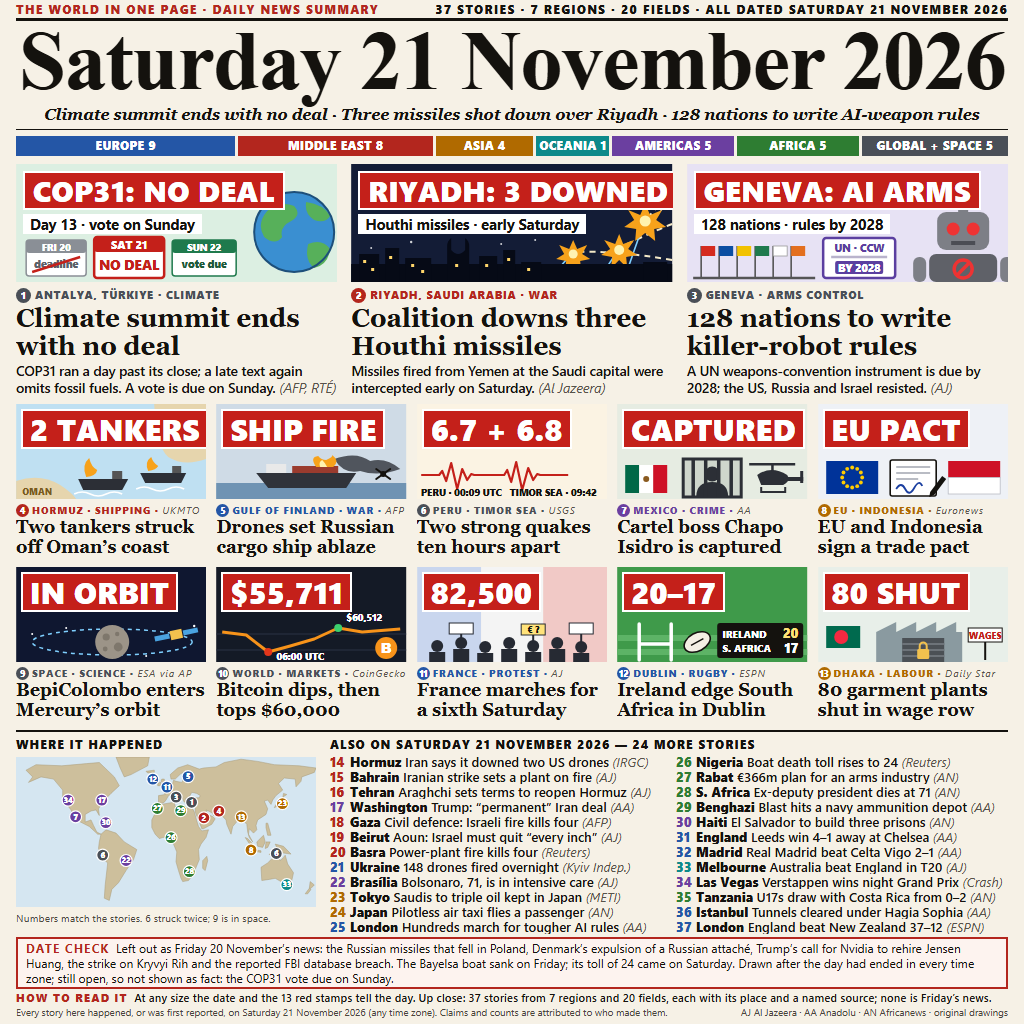
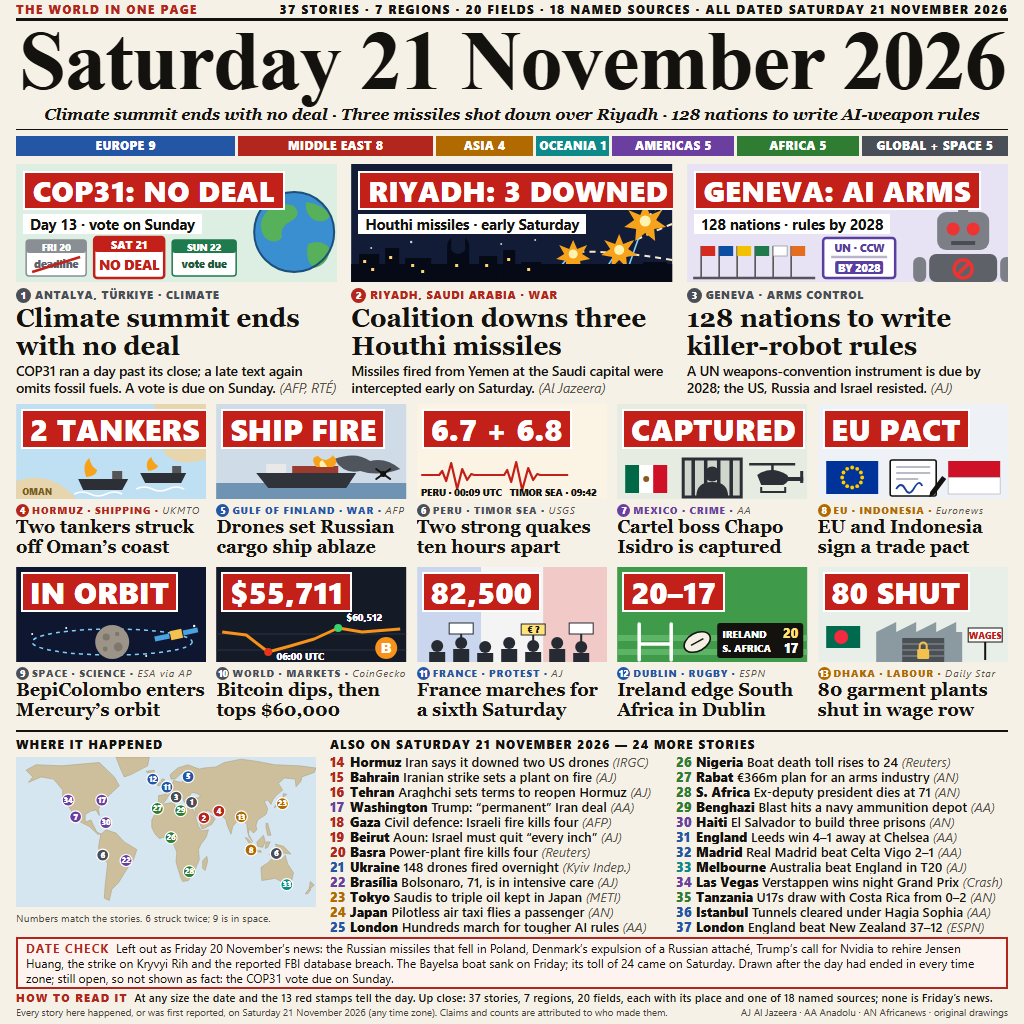
Header and guide name the 18 sources cited on the page

Changed region(s): [[0.5, 0.9688, 0.9688, 1.0], [0.2188, 0.0, 0.6562, 0.0312]]

diff --git a/src/page.html b/src/page.html
@@ -78,7 +78,7 @@
 </head>
 <body>
 
-<div class="top"><span class="l">THE WORLD IN ONE PAGE · DAILY NEWS SUMMARY</span><span>37 STORIES · 7 REGIONS · 20 FIELDS · ALL DATED SATURDAY 21 NOVEMBER 2026</span></div>
+<div class="top"><span class="l">THE WORLD IN ONE PAGE</span><span>37 STORIES · 7 REGIONS · 20 FIELDS · 18 NAMED SOURCES · ALL DATED SATURDAY 21 NOVEMBER 2026</span></div>
 <div class="date" id="date">Saturday 21 November 2026</div>
 <div class="strap">Climate summit ends with no deal · Three missiles shot down over Riyadh · 128 nations to write AI-weapon rules</div>
 
@@ -356,7 +356,7 @@
 <div class="check"><b>DATE CHECK</b>&nbsp; Left out as Friday 20 November’s news: the Russian missiles that fell in Poland, Denmark’s expulsion of a Russian attaché, Trump’s call for Nvidia to rehire Jensen Huang, the strike on Kryvyi Rih and the reported FBI database breach. The Bayelsa boat sank on Friday; its toll of 24 came on Saturday. Drawn after the day had ended in every time zone; still open, so not shown as fact: the COP31 vote due on Sunday.</div>
 
 <div class="foot">
-  <div class="guide"><b>HOW TO READ IT</b>&nbsp; At any size the date and the 13 red stamps tell the day. Up close: 37 stories from 7 regions and 20 fields, each with its place and a named source; none is Friday’s news.</div>
+  <div class="guide"><b>HOW TO READ IT</b>&nbsp; At any size the date and the 13 red stamps tell the day. Up close: 37 stories, 7 regions, 20 fields, each with its place and one of 18 named sources; none is Friday’s news.</div>
   <div class="row"><span>Every story here happened, or was first reported, on Saturday 21 November 2026 (any time zone). Claims and counts are attributed to who made them.</span><span>AJ Al Jazeera · AA Anadolu · AN Africanews · original drawings</span></div>
 </div>
 
